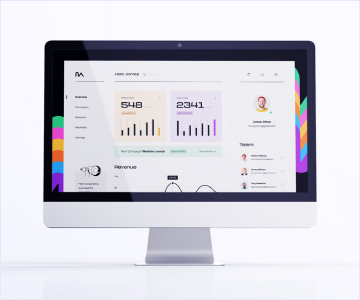
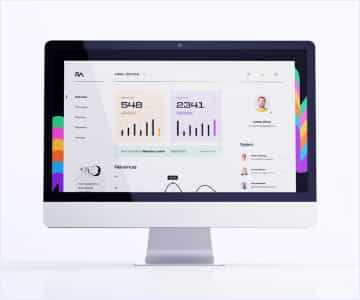
Оновив фото
Пропустив фото через  squoosh!

diff --git a/index.html b/index.html
@@ -37,7 +37,7 @@
                         </h1>
                          
                             
-                                <button> Order Service</button>
+                            <button type="button"> Order Service </button>
                              
                               
                 </section>
@@ -60,9 +60,9 @@
                     <figure>
                             <img src="./images/monitor.jpg" alt="monitor" width="360" >
                         
-                            <img src="./images/phone.png" alt="phone" width="360"  >
+                            <img src="./images/phone.jpg" alt="phone" width="360"  >
                         
-                            <img src="./images/note-boock.png" alt="note-boock" width="360">
+                            <img src="./images/note-boock.jpg" alt="note-boock" width="360">
                             </figure>
                         
                         
@@ -75,7 +75,7 @@
                             <ul>
                                 <!-- Mark Gierrero -->
                                 <li>
-                                        <img src="./images/team/mark.png" alt="men mark" width="264">
+                                        <img src="./images/team/mark.jpg" alt="men mark" width="264">
 
                                 <h3>Mark Gierrero</h3>
                                     Product Designer
@@ -83,7 +83,7 @@
                             <!-- TomFord -->
                                 <li>
                                 
-                                    <img src="./images/team/tomford.png" alt="men tomford" width="264">
+                                    <img src="./images/team/tomford.jpg" alt="men tomford" width="264">
                                
                                 <h3>TomFord</h3>
                                     Frontend Developer 
@@ -91,14 +91,14 @@
                             <!-- Camila Garcia -->
                                 <li>
                                     
-                                        <img src="./images/team/camila.png" alt="women camila" width="264">
+                                        <img src="./images/team/camila.jpg" alt="women camila" width="264">
                                    
                                     <h3>Camila Garcia</h3>
                                         Marketing
                                 </li>
                                     <!-- Daniel Wilson -->
                                 <li> 
-                                    <img src="./images/team/daniel.png" alt="man daniel" width="264">
+                                    <img src="./images/team/daniel.jpg" alt="man daniel" width="264">
                                     
                                     <h3>Daniel Wilson</h3>
                                      UI Designer
@@ -109,9 +109,7 @@
               
                <!-- footer-panel -->
             <footer> 
-                <h2>
-                    <span class="web">WEB</span> STUDIO
-                </h2>
+                <a href="/"><span>WEB</span>STUDIO</a>
                <address>Increase the flow of customers and sales for your business with digital marketing & growth solutions.</address> 
             </footer> 
                 
